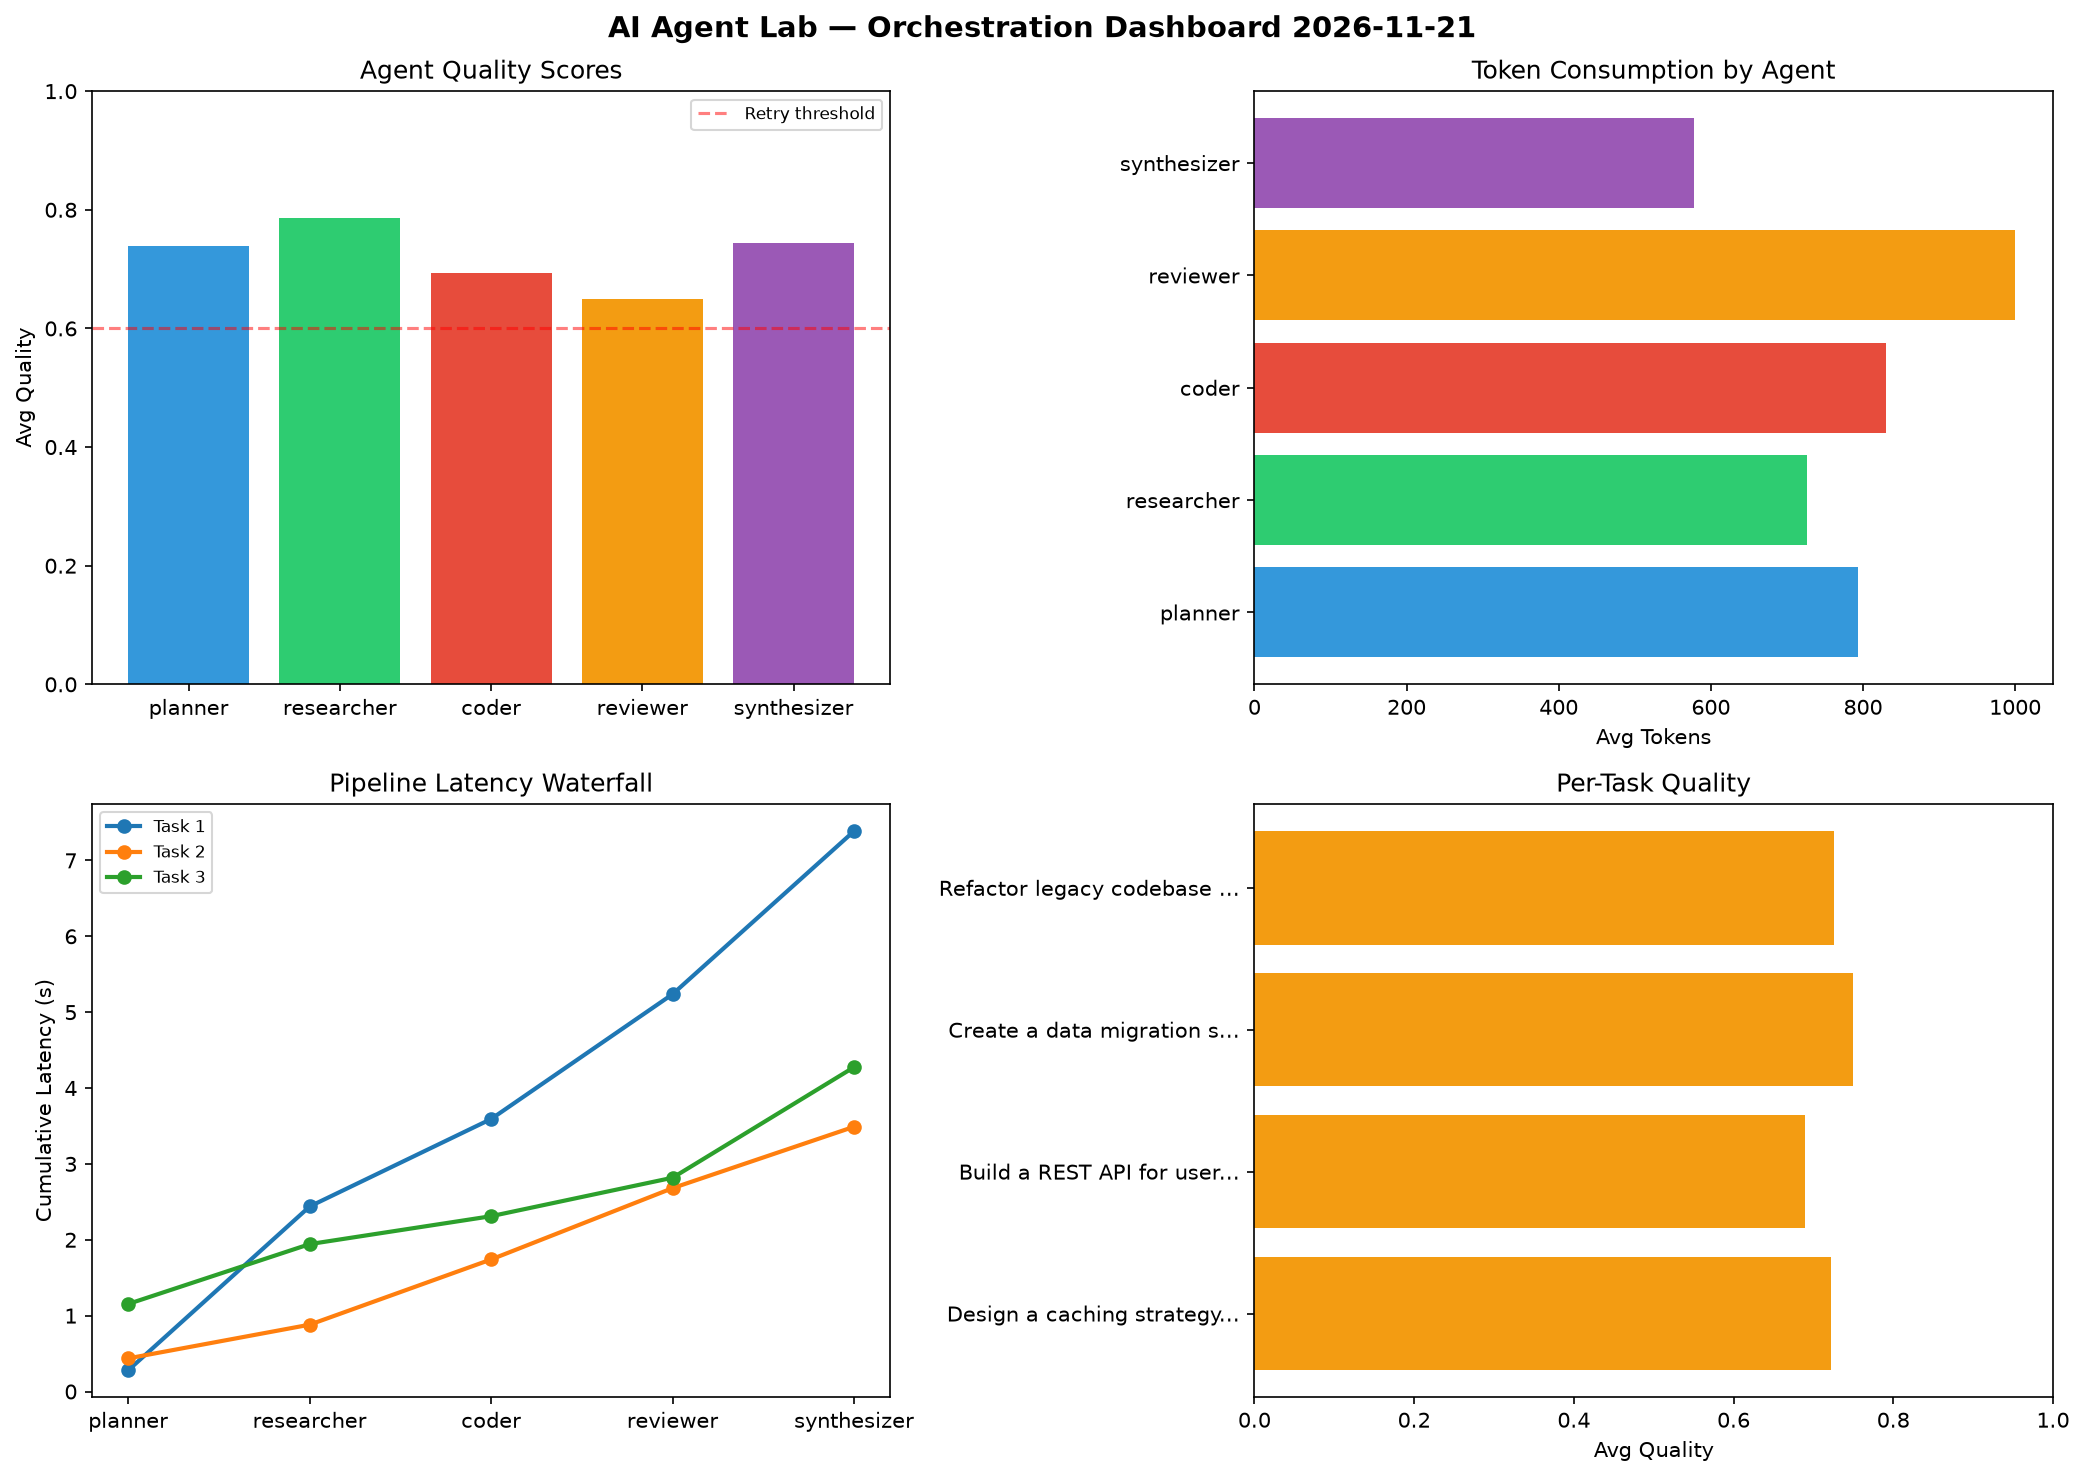
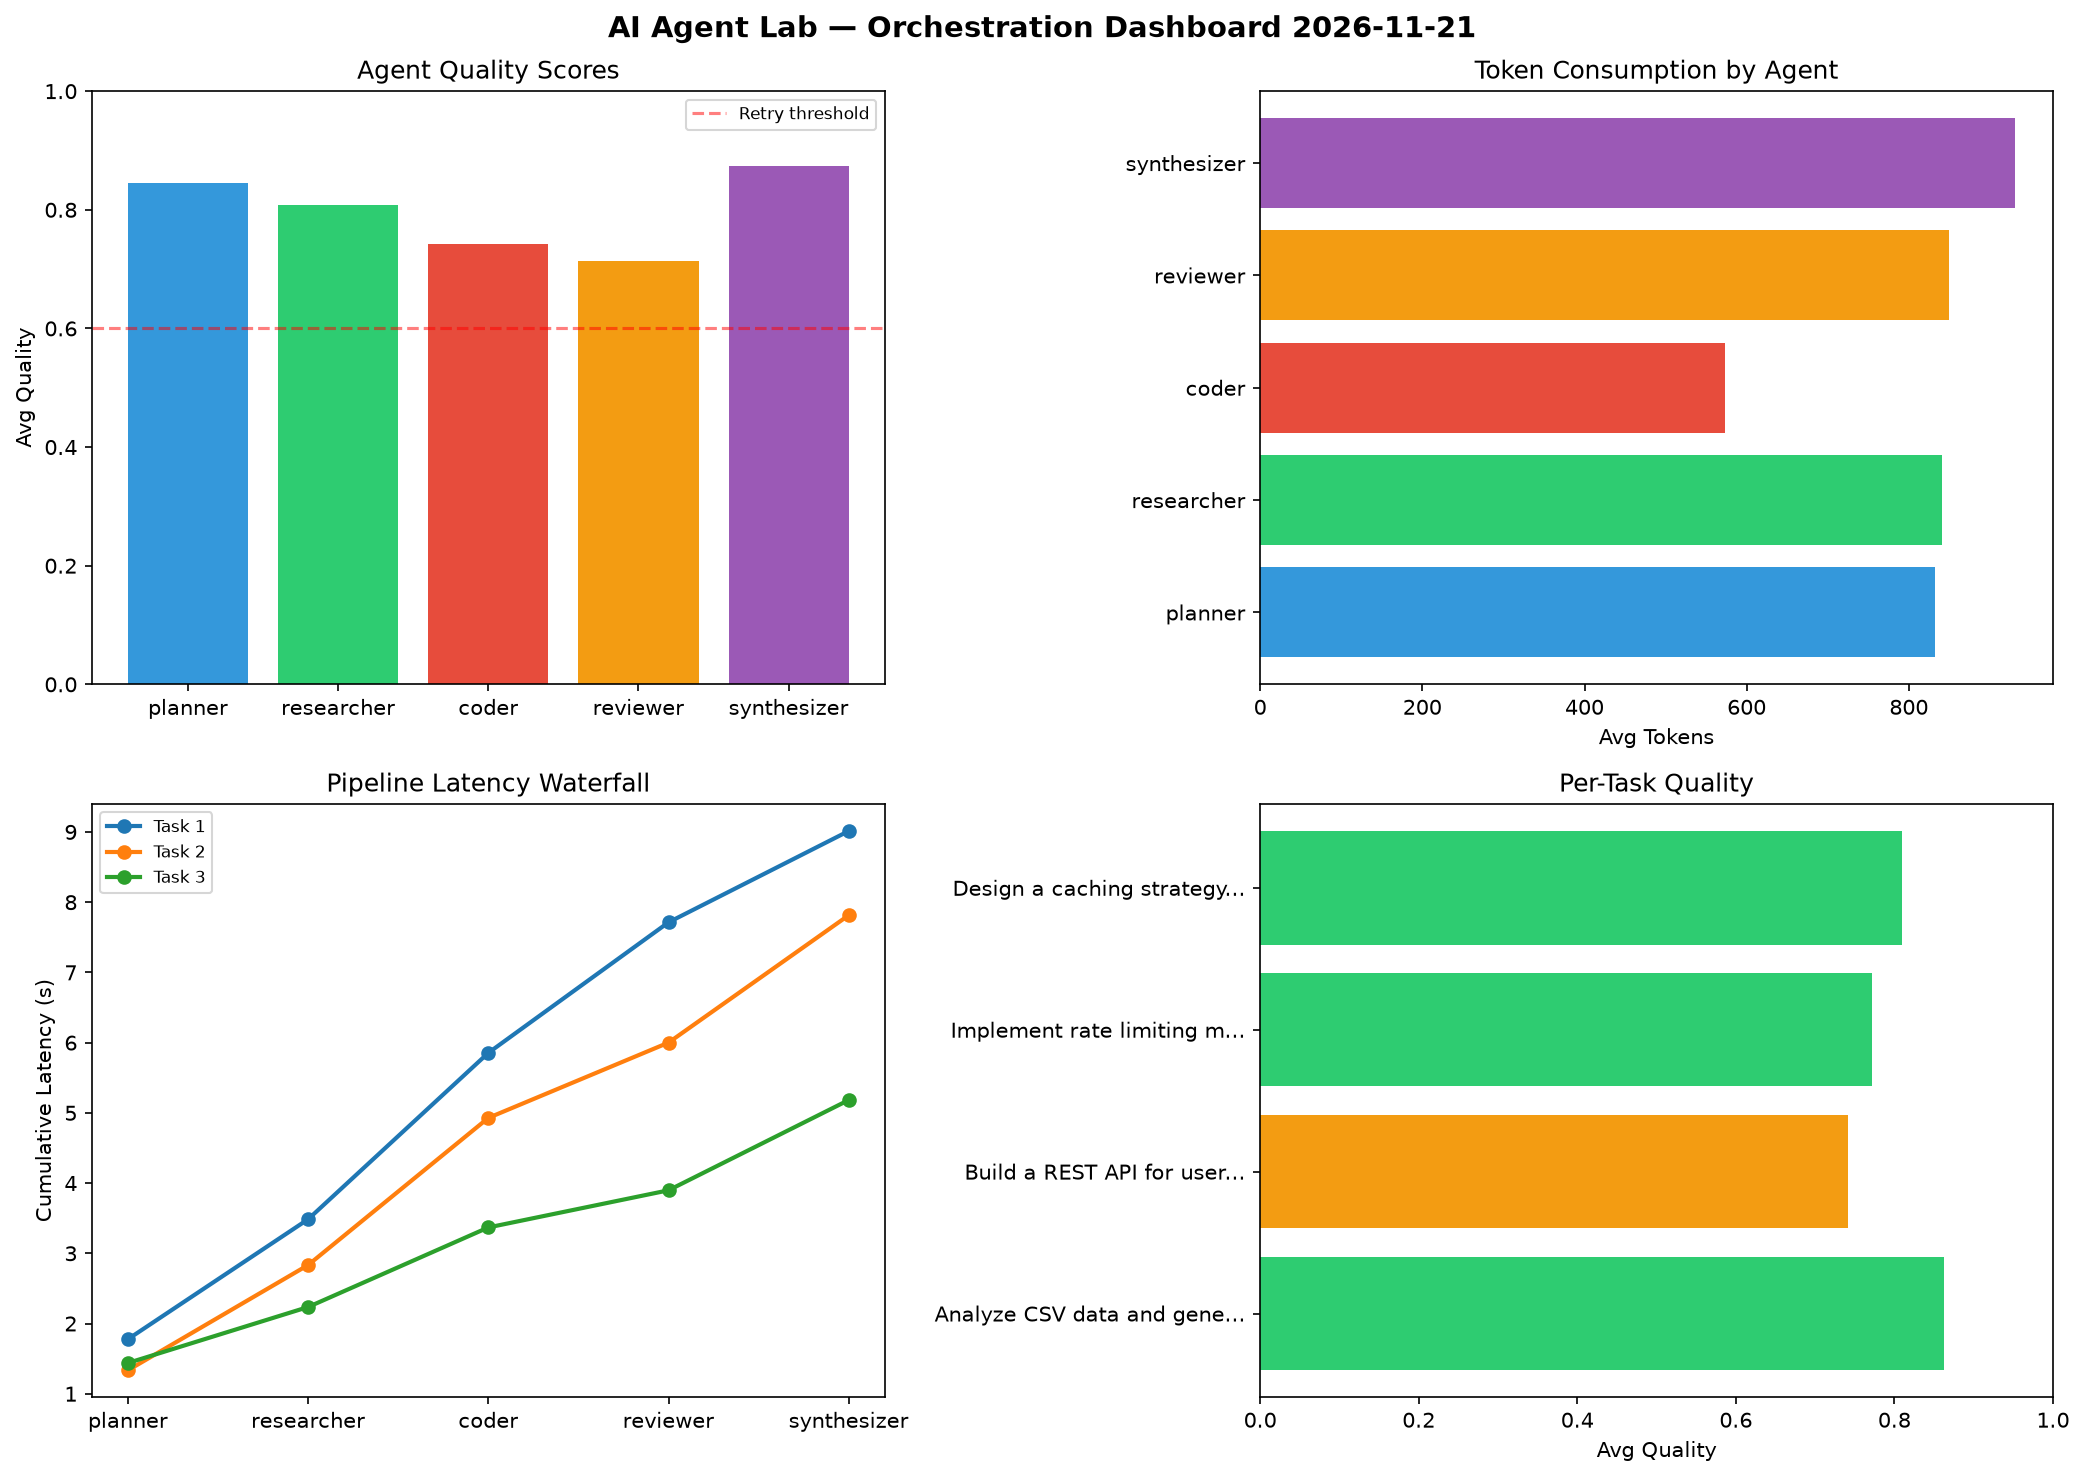
ai-agent-lab: orchestration run 2026-11-21T09:57

diff --git a/logs/2026-11-21.md b/logs/2026-11-21.md
@@ -1,6 +1,6 @@
 # AI Agent Lab — Orchestration Report 2026-11-21
 
-**Run ID:** `5c3749ab57` | **Tasks:** 4 | **Avg Quality:** 0.722
+**Run ID:** `2df403cfbe` | **Tasks:** 4 | **Avg Quality:** 0.796
 
 ![Dashboard](2026-11-21_dashboard.png)
 
@@ -8,52 +8,52 @@
 
 | Metric | Value |
 |--------|-------|
-| avg_latency | 6.038 |
-| total_tokens | 15710 |
-| avg_quality | 0.722 |
+| avg_latency | 6.977 |
+| total_tokens | 16108 |
+| avg_quality | 0.796 |
 
 ## Delta vs Yesterday
 
 | Metric | Today | Yesterday | Change |
 |--------|-------|-----------|--------|
-| avg_latency | 6.038 | 5.306 | 📈 13.8% |
-| total_tokens | 15710 | 13544 | 📈 16.0% |
-| avg_quality | 0.722 | 0.74 | 📉 -2.4% |
+| avg_latency | 6.977 | 5.306 | 📈 31.5% |
+| total_tokens | 16108 | 13544 | 📈 18.9% |
+| avg_quality | 0.796 | 0.74 | 📈 7.6% |
 
 ## Pipeline Results
 
-### Design a caching strategy for high-traffic endpoints
+### Analyze CSV data and generate statistical summary
 | Agent | Quality | Latency | Tokens | Status |
 |-------|---------|---------|--------|--------|
-| planner | 0.781 | 0.28s | 1032 | success |
-| researcher | 0.797 | 2.159s | 554 | success |
-| coder | 0.658 | 1.153s | 1153 | success |
-| reviewer | 0.636 | 1.646s | 1096 | success |
-| synthesizer | 0.74 | 2.149s | 934 | success |
+| planner | 0.733 | 1.777s | 570 | success |
+| researcher | 0.79 | 1.708s | 1075 | success |
+| coder | 0.803 | 2.369s | 565 | success |
+| reviewer | 0.992 | 1.859s | 1042 | success |
+| synthesizer | 0.993 | 1.3s | 1193 | success |
 
 ### Build a REST API for user authentication
 | Agent | Quality | Latency | Tokens | Status |
 |-------|---------|---------|--------|--------|
-| planner | 0.653 | 0.437s | 595 | success |
-| researcher | 0.691 | 0.444s | 554 | success |
-| coder | 0.89 | 0.86s | 945 | success |
-| reviewer | 0.713 | 0.94s | 910 | success |
-| synthesizer | 0.504 | 0.809s | 446 | needs_retry |
+| planner | 0.844 | 1.334s | 449 | success |
+| researcher | 0.898 | 1.499s | 787 | success |
+| coder | 0.643 | 2.095s | 822 | success |
+| reviewer | 0.558 | 1.072s | 608 | needs_retry |
+| synthesizer | 0.768 | 1.814s | 938 | success |
 
-### Create a data migration script for schema v2
+### Implement rate limiting middleware
 | Agent | Quality | Latency | Tokens | Status |
 |-------|---------|---------|--------|--------|
-| planner | 0.645 | 1.154s | 722 | success |
-| researcher | 0.996 | 0.789s | 754 | success |
-| coder | 0.532 | 0.368s | 959 | needs_retry |
-| reviewer | 0.683 | 0.507s | 1199 | success |
-| synthesizer | 0.895 | 1.458s | 279 | success |
+| planner | 0.979 | 1.438s | 1207 | success |
+| researcher | 0.709 | 0.797s | 651 | success |
+| coder | 0.599 | 1.133s | 559 | needs_retry |
+| reviewer | 0.769 | 0.529s | 914 | success |
+| synthesizer | 0.804 | 1.285s | 1219 | success |
 
-### Refactor legacy codebase to use dependency injection
+### Design a caching strategy for high-traffic endpoints
 | Agent | Quality | Latency | Tokens | Status |
 |-------|---------|---------|--------|--------|
-| planner | 0.879 | 0.47s | 823 | success |
-| researcher | 0.658 | 2.214s | 1042 | success |
-| coder | 0.691 | 1.593s | 266 | success |
-| reviewer | 0.564 | 2.415s | 794 | needs_retry |
-| synthesizer | 0.836 | 2.306s | 653 | success |
+| planner | 0.822 | 2.408s | 1101 | success |
+| researcher | 0.837 | 0.744s | 852 | success |
+| coder | 0.922 | 0.279s | 346 | success |
+| reviewer | 0.535 | 2.012s | 835 | needs_retry |
+| synthesizer | 0.93 | 0.456s | 375 | success |
